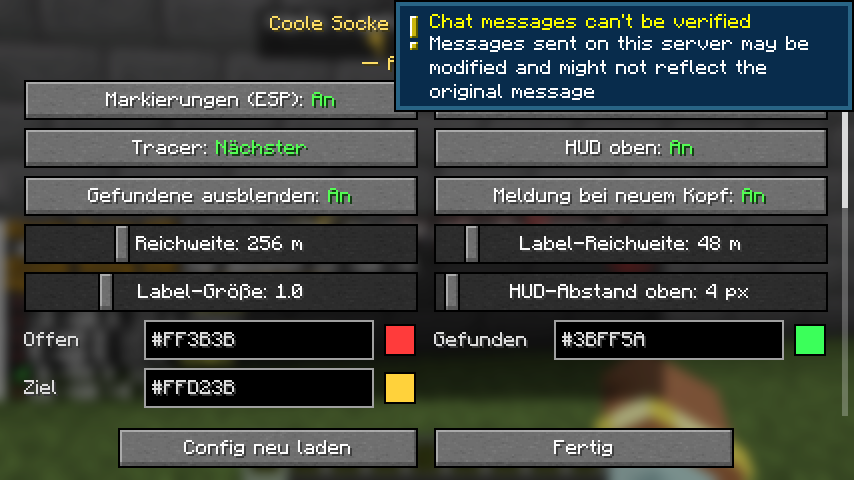
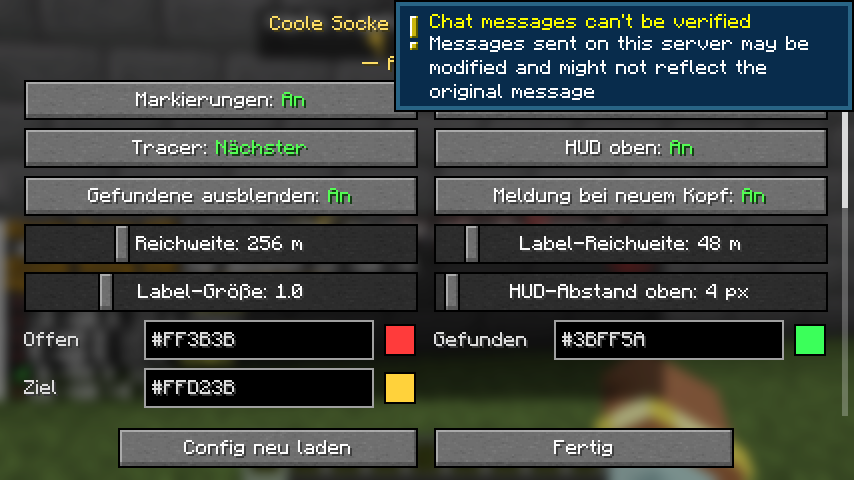
Beschreibung neutral formuliert, Schalter heißt "Markierungen"

Changed region(s): [[0.1218, 0.1875, 0.3958, 0.25]]

diff --git a/src/main/java/com/coolesocke69/command/HeadCommands.java b/src/main/java/com/coolesocke69/command/HeadCommands.java
@@ -56,6 +56,7 @@ public final class HeadCommands {
                         .then(literal("all").executes(HeadCommands::resetAll)))
                 .then(literal("toggle")
                         .executes(c -> toggle(c, "esp"))
+                        .then(literal("markierungen").executes(c -> toggle(c, "esp")))
                         .then(literal("esp").executes(c -> toggle(c, "esp")))
                         .then(literal("tracer").executes(c -> toggle(c, "tracer")))
                         .then(literal("hud").executes(c -> toggle(c, "hud")))
@@ -133,7 +134,7 @@ public final class HeadCommands {
         line.accept(" status – Zähler, Suchprofile, Speicherdatei");
         line.accept(" reset – alle wieder als NICHT gefunden markieren");
         line.accept(" reset all – alles vergessen (auch Positionen)");
-        line.accept(" toggle [esp|tracer|hud|labels|hidefound]");
+        line.accept(" toggle [markierungen|tracer|hud|labels|hidefound]");
         line.accept(" target nearest|clear|<x y z> – Ziel für Tracer/Pfeil");
         line.accept(" found <x y z> / unfound <x y z> – Status von Hand setzen");
         line.accept(" scan – sofort neu scannen, reload – Config neu laden, open – Liste öffnen (Taste K)");
@@ -185,7 +186,7 @@ public final class HeadCommands {
         line.accept("Köpfe: " + store.countFound() + " gefunden / " + store.countDiscovered() + " entdeckt");
         line.accept("Geladene Chunks: " + CooleSocke69Client.scanner().loadedChunkCount() + ", Kopf-Blöcke darin: " + CooleSocke69Client.scanner().lastSkullCount()
                 + ", Scan: " + CooleSocke69Client.scanner().lastIntervalMicros() + " µs, Zeichnen: " + com.coolesocke69.render.HeadRenderer.lastRenderMicros + " µs");
-        line.accept("ESP " + onOff(cfg.espEnabled) + ", Tracer " + cfg.tracerMode.title + ", HUD " + onOff(cfg.hudEnabled)
+        line.accept("Markierungen " + onOff(cfg.espEnabled) + ", Tracer " + cfg.tracerMode.title + ", HUD " + onOff(cfg.hudEnabled)
                 + ", gefundene " + (cfg.hideFound ? "ausgeblendet" : "grün"));
         for (String s : CooleSocke69Client.matcher().describe()) line.accept("Sucht: " + s);
         if (!CooleSocke69Client.matcher().hasCriteria()) line.accept("Achtung: kein aktives Suchprofil!");
@@ -228,7 +229,7 @@ public final class HeadCommands {
             }
             default -> {
                 cfg.espEnabled = !cfg.espEnabled;
-                msg = "Markierungen (ESP) " + onOff(cfg.espEnabled);
+                msg = "Markierungen " + onOff(cfg.espEnabled);
             }
         }
         CooleSocke69Client.onConfigEdited();

diff --git a/src/main/java/com/coolesocke69/gui/ConfigScreen.java b/src/main/java/com/coolesocke69/gui/ConfigScreen.java
@@ -72,7 +72,7 @@ public class ConfigScreen extends ScrollScreen {
 
         ModConfig c = cfg();
         header("Anzeige");
-        toggle("Markierungen (ESP)", () -> c.espEnabled, v -> c.espEnabled = v, "Farbige Box durch Wände um jeden Kopf");
+        toggle("Markierungen", () -> c.espEnabled, v -> c.espEnabled = v, "Farbige Box um jeden Kopf, auch hinter Blöcken sichtbar");
         toggle("Labels mit Entfernung", () -> c.labelsEnabled, v -> c.labelsEnabled = v, null);
         cycleTracer();
         toggle("HUD oben", () -> c.hudEnabled, v -> c.hudEnabled = v, "Zähler, Pfeil und Entfernung zum nächsten Kopf");

diff --git a/README.md b/README.md
@@ -4,23 +4,22 @@
 
 **Minecraft 1.21.11 · Fabric · Java 21 · nur Client** · von **redstone_nugget** · Mod-Name im Spiel: *Coole Socke 69*
 
-Findet die versteckten Event-Köpfe auf **Hugo SMP**: Jeder Kopf in den geladenen Chunks wird erkannt,
-mit einer farbigen Box durch Wände markiert und mit Entfernung beschriftet. Ein Pfeil oben am Bildschirm
-zeigt zum nächsten Kopf. Rechtsklick auf einen Kopf → gilt als gefunden und wird nicht mehr markiert.
-Der Fortschritt wird pro Server gespeichert.
+Hilft dir beim Event-Köpfe-Suchen auf **Hugo SMP**: Erkennt die Event-Köpfe in geladenen Chunks, zeigt ihre
+Koordinaten in einer Liste, markiert sie und führt dich per Pfeil hin. Gefundene Köpfe werden abgehakt
+(Rechtsklick) und danach nicht mehr angezeigt. Der Fortschritt wird pro Server gespeichert.
 
 <p align="center">
-  <img src="docs/markierungen.png" width="49%" alt="Markierungen durch eine Wand, HUD mit Pfeil">
-  <img src="docs/200-koepfe.png" width="49%" alt="200 Köpfe von oben, Tracer zum nächsten">
+  <img src="docs/liste.png" width="49%" alt="Liste aller entdeckten Köpfe mit Koordinaten (Taste K)">
+  <img src="docs/befehle.png" width="49%" alt="Koordinaten im Chat mit /headfinder list">
 </p>
 <p align="center">
-  <img src="docs/liste.png" width="49%" alt="Liste aller entdeckten Köpfe (Taste K)">
+  <img src="docs/markierungen.png" width="49%" alt="Markierungen und Pfeil zum nächsten Kopf">
   <img src="docs/einstellungen.png" width="49%" alt="Einstellungen">
 </p>
 
-> **English:** Finds the hidden event heads on Hugo SMP. Every matching player head in loaded chunks gets a
-> box through walls, a distance label and an optional tracer; a HUD arrow points to the nearest one.
-> Right-click a head to mark it as found (it is hidden afterwards), reset any time. Progress is saved per server.
+> **English:** Helps you find the event heads on Hugo SMP: detects them in loaded chunks, lists their
+> coordinates, marks them and guides you there with an arrow. Right-click a head to tick it off (it is hidden
+> afterwards), reset any time. Progress is saved per server.
 
 > **Inoffiziell.** Nicht von Hugo SMP. Die Mod ist rein clientseitig, sendet keine eigenen Pakete und nutzt
 > nur Daten, die dein Client sowieso vom Server bekommt. Prüf trotzdem selbst die Regeln des Servers.
@@ -58,8 +57,8 @@ gespeichert und in der Liste, auch wenn du weit weg bist.
 | `/headfinder list [anzahl]` | Nächste Köpfe im Chat (Koordinaten anklicken = kopieren) |
 | `/headfinder reset` | Alle wieder als **nicht gefunden** markieren (Positionen bleiben) |
 | `/headfinder reset all` | Alles vergessen, auch die Positionen |
-| `/headfinder toggle [esp\|tracer\|hud\|labels\|hidefound]` | Anzeige umschalten |
-| `/headfinder target nearest\|clear\|<x y z>` | Ziel für Tracer und Pfeil |
+| `/headfinder toggle [markierungen\|tracer\|hud\|labels\|hidefound]` | Anzeige umschalten |
+| `/headfinder target nearest\|clear\|<x y z>` | Ziel für Linie und Pfeil |
 | `/headfinder found <x y z>` / `unfound <x y z>` | Status von Hand setzen |
 | `/headfinder status`, `scan`, `reload`, `open` | Infos, neu scannen, Config neu laden, Liste öffnen |
 
@@ -78,11 +77,11 @@ Kopf wird über Dimension + Blockposition identifiziert. Weitere Suchprofile (Na
 lassen sich in den Einstellungen oder in `config/coole_socke_69/config.json` eintragen.
 
 Gescannt werden nur die Block-Entities der Chunks (beim Laden und einmal pro Sekunde), nicht jeder Block.
-Getestet mit 200 Köpfen: Zeichnen ca. 0,04 ms pro Bild, Scan unter 0,5 ms pro Sekunde.
+Getestet mit 200 Köpfen: Anzeige ca. 0,04 ms pro Bild, Scan unter 0,5 ms pro Sekunde.
 
 ## Einstellungen
 
-Markierungen, Labels, Tracer (aus / nächster / alle), HUD und dessen Abstand oben, gefundene ausblenden
+Markierungen (auch hinter Blöcken sichtbar), Labels, Linie zum Kopf (aus / nächster / alle), HUD und dessen Abstand oben, gefundene ausblenden
 oder grün anzeigen, Farben (offen, gefunden, Ziel), Reichweite für Boxen und Labels, Label-Größe,
 Rechts-/Linksklick bzw. Verschwinden = gefunden, Items & Rahmen erkennen, UUID-Vergleich, Scan-Intervall
 und die Suchprofile.

diff --git a/.github/release-notes.md b/.github/release-notes.md
@@ -1,10 +1,10 @@
 **Hugo SMP Pumpkin Finder 1.0.0** für Minecraft 1.21.11 (Fabric, nur Client). Im Spiel heißt die Mod *Coole Socke 69*.
 
-Findet die versteckten Event-Köpfe auf Hugo SMP: Boxen durch Wände mit Entfernung, Tracer und Pfeil zum nächsten Kopf, Zähler oben am Bildschirm. Rechtsklick auf einen Kopf markiert ihn als gefunden, danach wird er nicht mehr angezeigt. Zurücksetzen mit `/headfinder reset` oder in der Liste (Taste **K**).
+Hilft beim Event-Köpfe-Suchen auf Hugo SMP: erkennt die Event-Köpfe in geladenen Chunks, zeigt ihre Koordinaten in einer Liste (Taste **K**), markiert sie und führt dich per Pfeil hin. Rechtsklick auf einen Kopf hakt ihn ab, danach wird er nicht mehr angezeigt. Zurücksetzen mit `/headfinder reset` oder in der Liste.
 
 ### Installation
 1. [Fabric Loader](https://fabricmc.net/use/) für 1.21.11 und die [Fabric API](https://modrinth.com/mod/fabric-api) installieren
 2. `coole-socke-69-1.0.0.jar` in den `mods`-Ordner legen
-3. Am Spawn herumlaufen: Köpfe in geladenen Chunks werden automatisch markiert
+3. Am Spawn herumlaufen: Köpfe in geladenen Chunks landen automatisch in der Liste
 
-**English:** Finds the hidden event heads on Hugo SMP: boxes through walls with distance, tracer and HUD arrow to the nearest head. Right-click a head to mark it as found (hidden afterwards); reset with `/headfinder reset`. Unofficial, client-side only.
+**English:** Helps you find the event heads on Hugo SMP: detects them in loaded chunks, lists their coordinates, marks them and guides you there with an arrow. Right-click a head to tick it off; reset with `/headfinder reset`. Unofficial, client-side only.
